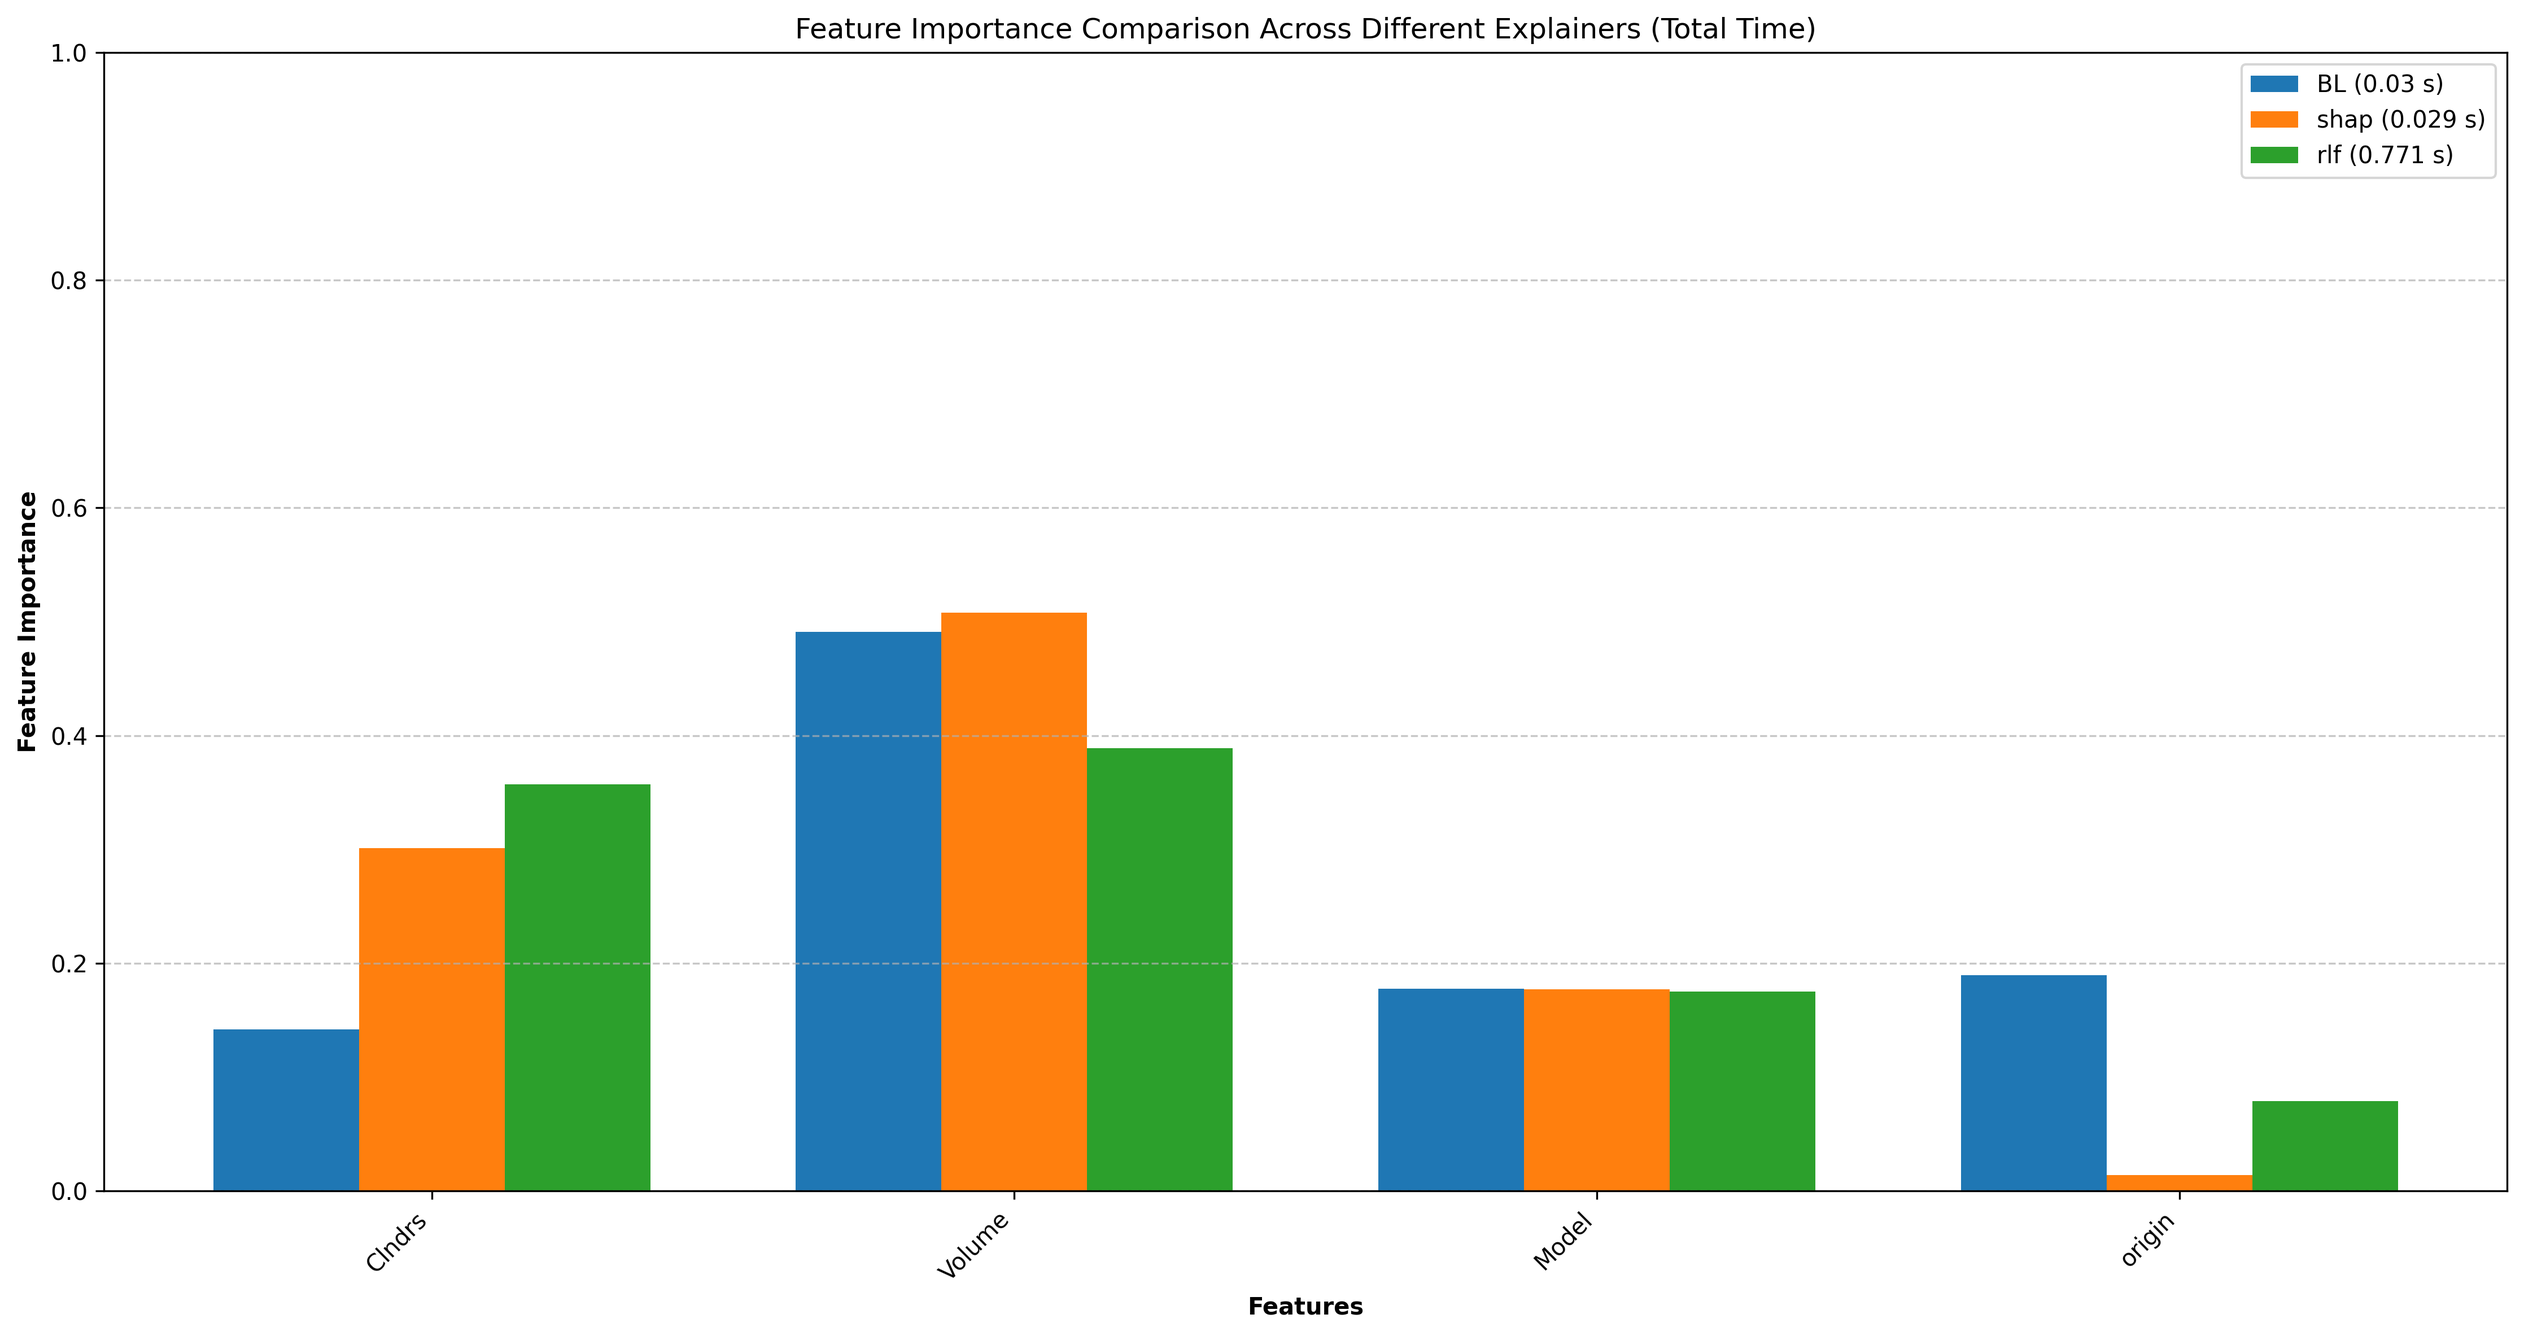
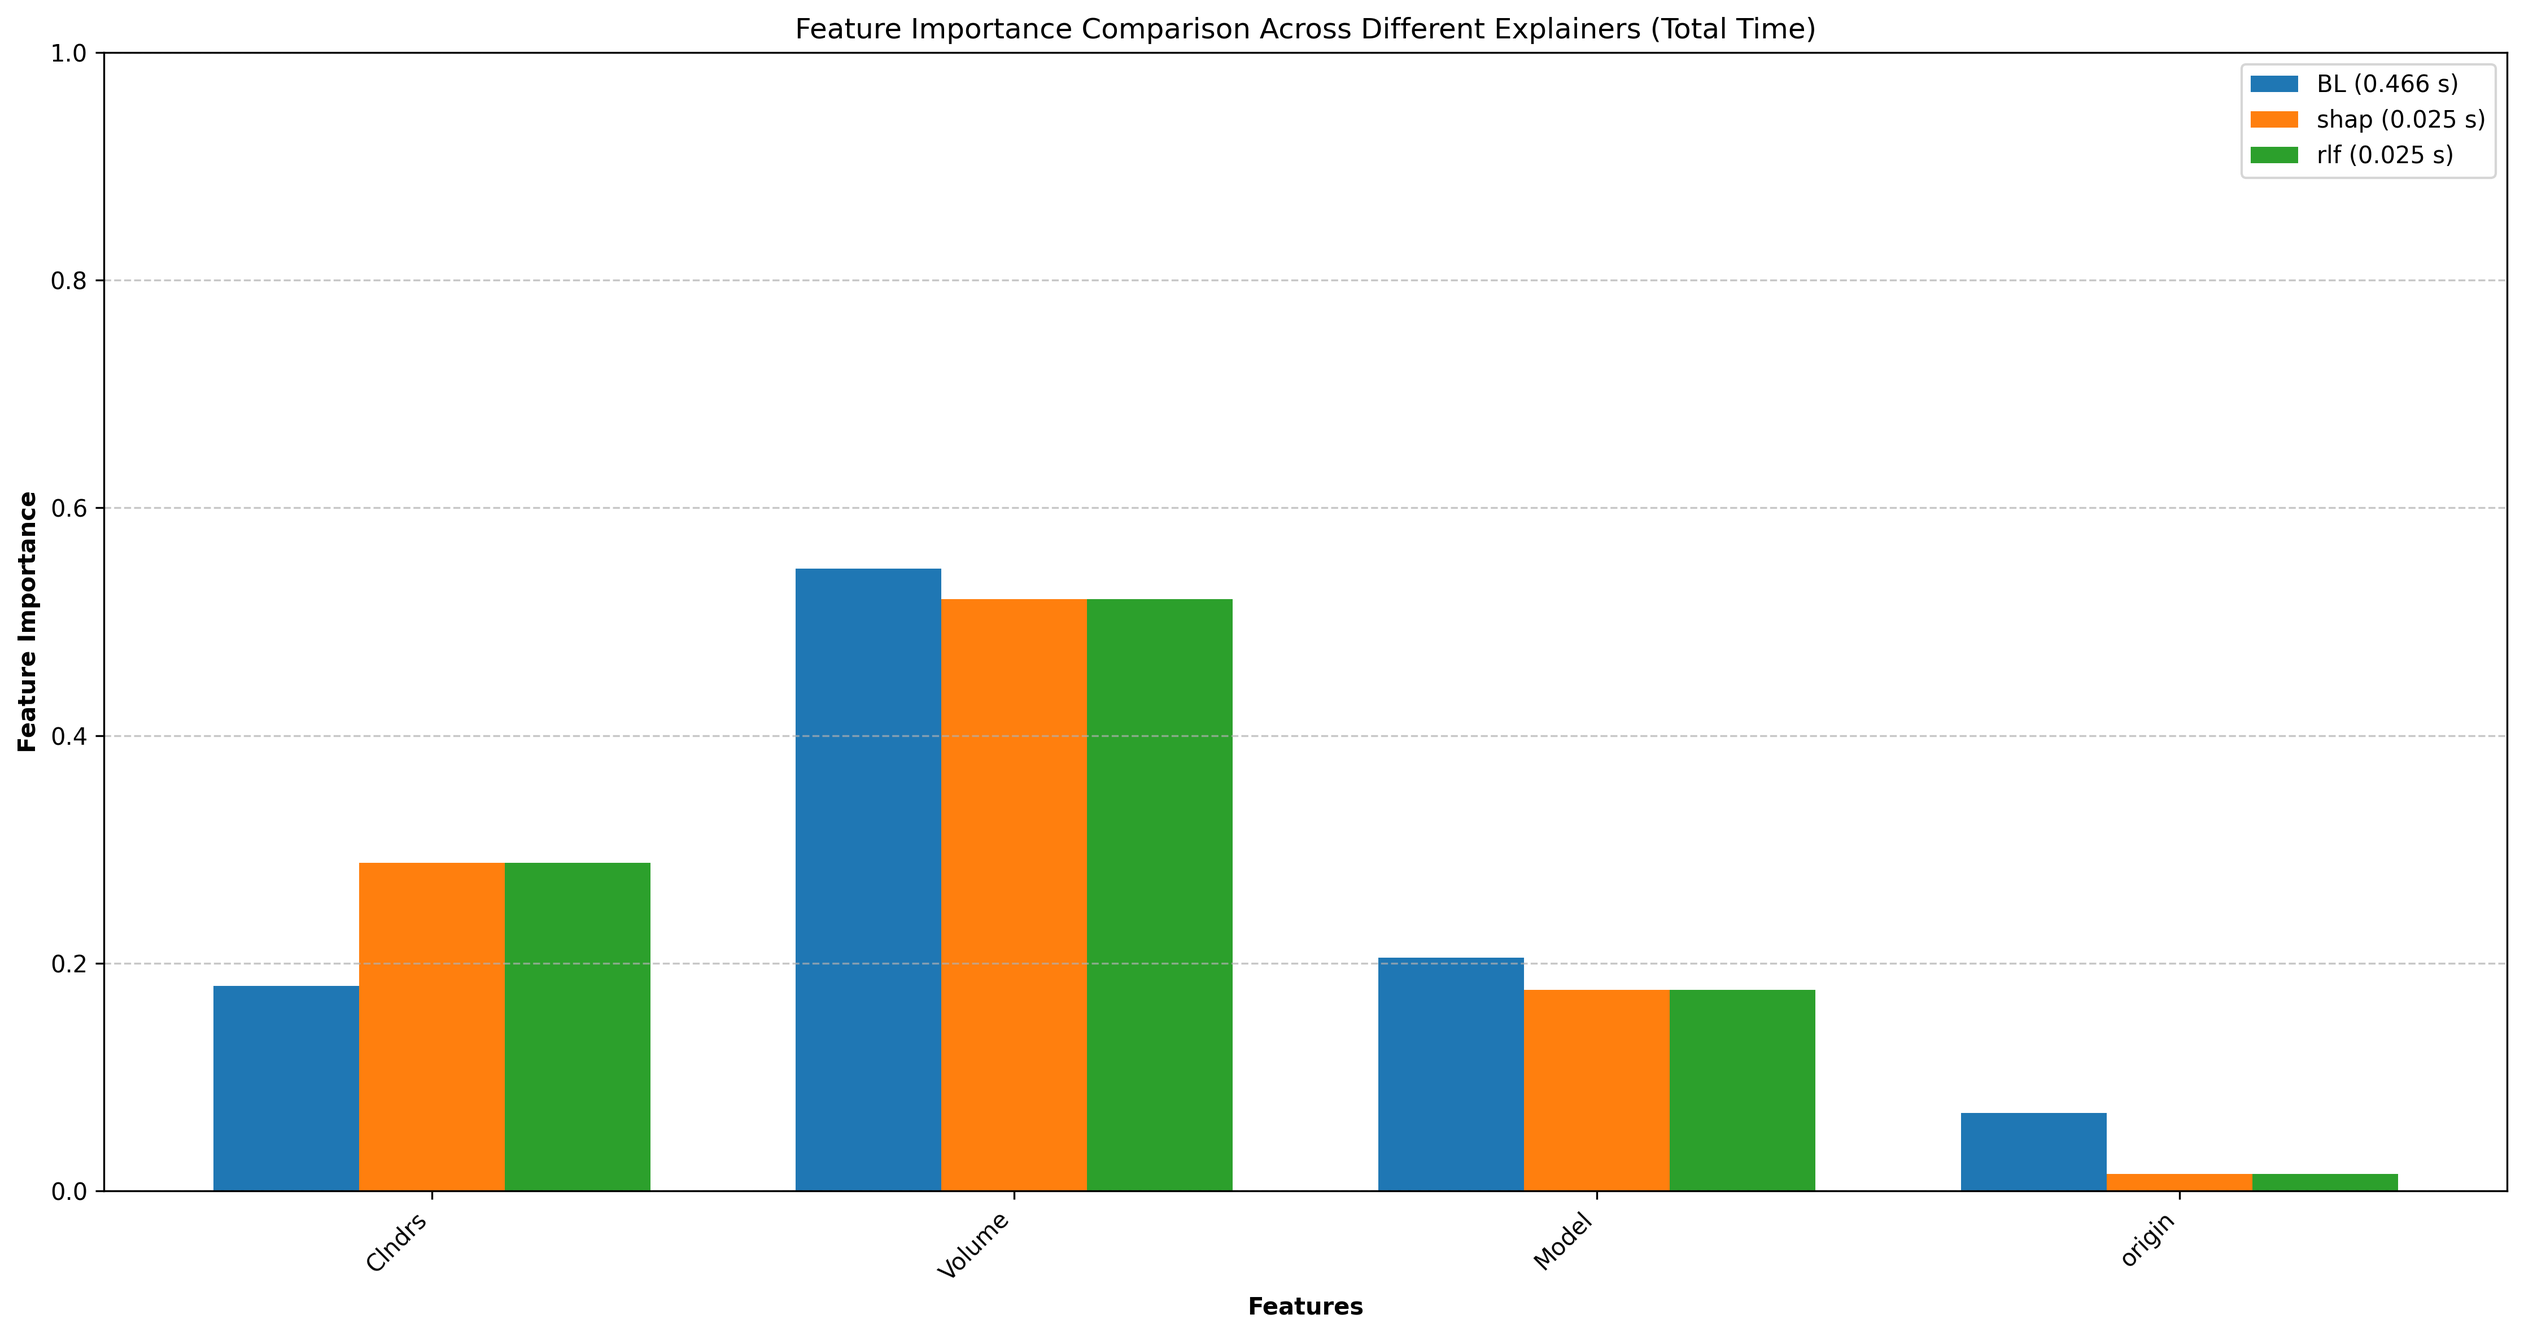
refactoring the experiment

diff --git a/src/extend4.py b/src/extend4.py
@@ -22,14 +22,10 @@ from neural_net import *
 from relieff import RReliefF
 
 
-Random_seed = 42
-
-def split_data(data, test_size=0.2):
-    global Random_seed
+def split_data(data, r_seed = 42, test_size=0.2):
     # Shuffle the data
     rows = data.rows.copy()
-    random.seed(Random_seed)
-    Random_seed *= 2
+    random.seed(r_seed)
     random.shuffle(rows)
     # Calculate split point
     split_idx = int(len(rows) * (1 - test_size))
@@ -48,19 +44,28 @@ def split_data(data, test_size=0.2):
 
 def run_bl_explainer(data):
     """Run BareLogic explainer and return feature importance"""
+    print('-------BL:-------')
     the.Stop = 32
     t1 = time.time()
-    model = actLearn(data, shuffle=True)
-    nodes = tree(model.best.rows + model.rest.rows, data)
-    #showTree(nodes)
-    print("MDI of BL tree:\t", round(treeMDI(nodes), 3))
-    bl_FI = treeFeatureImportance(nodes)
+    stts = []
+    count = 0
+    for _ in range(15):
+        model = actLearn(data, shuffle=True)
+        nodes = tree(model.best.rows + model.rest.rows, data)
+        #showTree(nodes)
+        #print("MDI of BL tree:\t", round(treeMDI(nodes), 3))
+        vals = treeFeatureImportance(nodes)
+        stts.append(vals)
+        count += len([i for i in vals.values() if i > 0])
+    bl_FI = {}
+    for f in data.cols.x:
+        bl_FI[f.txt] = np.average([stts[i][f.txt] for i in range(len(stts))])
     w = sum(vf for vf in bl_FI.values())
     for f in bl_FI:
         bl_FI[f] = bl_FI[f] / w
     bl_FI["explainer"] = "BL"
     bl_FI["run_time"] = time.time()-t1
-    return bl_FI
+    return bl_FI, count // 15
 
 def distribution_plot(labeled, data, features, sample):
     cols = [d.txt for d in data.cols.all]
@@ -307,13 +312,8 @@ def csv2(file, cols):
       line = re.sub(r'([\n\t\r ]|#.*)', '', line)
       if line: yield [coerce2(s, cols) for s in line.split(",")]
 
-def regression(unlabeled, labeled, cols, data, regressor, top_pick):
+def regression(labeled_df, unlabeled_df, labeled_y, unlabeled_y, cols, regressor, top_pick):
     features = [c for c in cols if c[-1] not in ["+","-", "X"]]
-    labeled_df = pd.DataFrame(labeled, columns=cols)
-    unlabeled_df = pd.DataFrame(unlabeled, columns=cols)
-    labeled_y = pd.DataFrame([ydist(row, data) for row in labeled], columns=["d2h"])
-    unlabeled_y = pd.DataFrame([ydist(row, data) for row in unlabeled], columns=["d2h"])
-
     le = LabelEncoder()
     for c in cols:
         if c[0].isupper():
@@ -361,40 +361,37 @@ def regression(unlabeled, labeled, cols, data, regressor, top_pick):
     #input()
     return sorted([unlabeled_y.iloc[i].values for i in top_idx])[-1][0] ## Returning d2h of worst point
 
-def exp1(file, columns, repeats, regressor, top_pick = 5, stop = 32):
+def exp1(selected_raw_data, data, test_data, b4, regressor, top_pick = 5, stop = 32):
     def win(x): return round(100*(1 - (x - b4.lo)/(b4.mu - b4.lo)))
-    selected_raw_data = Data(csv2(file, columns))
     the.Stop = stop
     stats = []
-    for _ in range(repeats):
-        data, test_data = split_data(selected_raw_data)
-        b4    = yNums(data.rows, selected_raw_data)
-        labeled = data.rows
-        unlabeled = test_data.rows
-        stats.append( win( regression(unlabeled, labeled, [d.txt for d in data.cols.all], selected_raw_data, regressor, top_pick) ) )
+    labeled = data.rows
+    unlabeled = test_data.rows
+    cols = [d.txt for d in data.cols.all]
+    labeled_df = pd.DataFrame(labeled, columns=cols)
+    unlabeled_df = pd.DataFrame(unlabeled, columns=cols)
+    labeled_y = pd.DataFrame([ydist(row, data) for row in labeled], columns=["d2h"])
+    unlabeled_y = pd.DataFrame([ydist(row, selected_raw_data) for row in unlabeled], columns=["d2h"])
+
+    stats.append( win( regression(labeled_df, unlabeled_df, labeled_y, unlabeled_y, cols, regressor, top_pick) ) )
     return np.mean(stats), np.std(stats)
 
-def exp2(file, columns, repeats, top_pick = 5, stop = 32):
+def exp2(selected_raw_data, data, test_data, b4, top_pick = 5, stop = 32):
     def win(x): return round(100*(1 - (x - b4.lo)/(b4.mu - b4.lo)))
-    selected_raw_data = Data(csv2(file, columns))
     the.Stop = stop
     stats = []
-    for _ in range(repeats):
-        data, test_data = split_data(selected_raw_data)
-        b4    = yNums(data.rows, selected_raw_data)
-        unlabeled_y = pd.DataFrame([ydist(row, data) for row in test_data.rows], columns=["d2h"])
-        model = actLearn(data,shuffle=False)
-        nodes = tree(model.best.rows + model.rest.rows,data)
-        guesses = sorted([(leaf(nodes,row).ys, i) for i, row in enumerate(test_data.rows)],key=first)
-        stats.append( win(sorted([unlabeled_y.iloc[i].values for _, i in guesses[:top_pick]])[-1][0]) )
-    return np.mean(stats), np.std(stats)
+    unlabeled_y = pd.DataFrame([ydist(row, selected_raw_data) for row in test_data.rows], columns=["d2h"])
+    model = actLearn(data,shuffle=False)
+    nodes = tree(model.best.rows + model.rest.rows,data)
+    guesses = sorted([(leaf(nodes,row).ys, i) for i, row in enumerate(test_data.rows)],key=first)
+    stats.append( win(sorted([unlabeled_y.iloc[i].values for _, i in guesses[:top_pick]])[-1][0]) )
 
-def find_optimal(file, picks):
+    vals = treeFeatureImportance(nodes)
+    return np.mean(stats), np.std(stats), len([i for i in vals.values() if i > 0])
+
+def find_optimal(selected_raw_data, test_data, b4, picks):
     def win(x): return round(100*(1 - (x - b4.lo)/(b4.mu - b4.lo)))
-    selected_raw_data = Data(csv(file))
-    data, test_data = split_data(selected_raw_data)
-    b4    = yNums(data.rows, selected_raw_data)
-    unlabeled_y = pd.DataFrame([ydist(row, data) for row in test_data.rows], columns=["d2h"])
+    unlabeled_y = pd.DataFrame([ydist(row, selected_raw_data) for row in test_data.rows], columns=["d2h"])
     return win(sorted(unlabeled_y["d2h"])[picks-1]), win(sorted(unlabeled_y["d2h"])[int(len(test_data.rows)*0.1)])
 
 def reliefff(data, cols):
@@ -425,6 +422,7 @@ def reliefff(data, cols):
     return rlf
     
 def main():
+    random_seed = 42
     dataset = sys.argv[1]
     raw_data = Data(csv(dataset))
     data, test_data = split_data(raw_data)
@@ -445,7 +443,7 @@ def main():
         distribution_plot(model.best.rows + model.rest.rows, data, features, "32")
     
     # Run all explainers
-    bl_FI = run_bl_explainer(data)
+    bl_FI, feature_counts = run_bl_explainer(data)
     #lime_FI = run_lime_explainer(data, test_data, features)
     shap_FI = run_shap_explainer(data, test_data, features)
     rlf_FI = shap_FI
@@ -459,36 +457,67 @@ def main():
     feature_importance.loc[len(feature_importance)] = rlf_FI
     feature_importance.loc[len(feature_importance)-1, "explainer"] = "rlf"
     analyze_feature_importance(feature_importance, features)
-    for regressor in ["bl", "ann","rf", "svr", "lgbm","linear"]:
+
+    repeats = 5
+    top_features = get_features(feature_importance, feature_counts)
+    stats = {}
+    for regressor in ["linear", "bl", "rf", "svr", "ann", "lgbm"]:
         bl_mean, bl_std = [], []
         shap_mean, shap_std = [], []
         rlf_mean, rlf_std = [], []
         t1 = time.time()
-        for k in range(len(features)):
-            print("-------------------  : ", k)
-            top_features = get_features(feature_importance, k+1)
+        optimal, optimal_90 = [], []
+        for _ in range(repeats):
+            random_seed *= 2
             if regressor == "bl":
-                mean, std = exp2(dataset, top_features['BL'] + targets, 15, 5, 32)
+                selected_raw_data = Data(csv(dataset))
+                data, test_data = split_data(selected_raw_data, random_seed)
+                b4    = yNums(data.rows, selected_raw_data)
+                mean, std, counts = exp2(data, test_data, b4, 5, 32)
                 bl_mean.append(mean)
                 bl_std.append(std)
-                mean, std = exp2(dataset, top_features['shap'] + targets, 15, 5, 32)
+
+                top_features_bl = get_features(feature_importance, counts)
+                selected_raw_data = Data(csv2(dataset, top_features_bl['shap'] + targets))
+                data, test_data = split_data(selected_raw_data, random_seed)
+                b4    = yNums(data.rows, selected_raw_data)
+                mean, std = exp2(data, test_data, b4, 5, 32)
                 shap_mean.append(mean)
                 shap_std.append(std)
-                mean, std = exp2(dataset, top_features['rlf'] + targets, 15, 5, 32)
+
+                selected_raw_data = Data(csv2(dataset, top_features_bl['rlf'] + targets))
+                data, test_data = split_data(selected_raw_data, random_seed)
+                b4    = yNums(data.rows, selected_raw_data)
+                mean, std = exp2(data, test_data, b4, 5, 32)
                 rlf_mean.append(mean)
                 rlf_std.append(std)
             else:
-                mean, std = exp1(dataset, top_features['BL'] + targets, 15, regressor, 5, 32)
+                selected_raw_data = Data(csv2(dataset, top_features['BL'] + targets))
+                data, test_data = split_data(selected_raw_data, random_seed)
+                b4    = yNums(data.rows, selected_raw_data)
+                mean, std = exp1(selected_raw_data, data, test_data, b4, regressor, 5, 32)
                 bl_mean.append(mean)
                 bl_std.append(std)
-                mean, std = exp1(dataset, top_features['shap'] + targets, 15, regressor, 5, 32)
+
+                selected_raw_data = Data(csv2(dataset, top_features['shap'] + targets))
+                data, test_data = split_data(selected_raw_data, random_seed)
+                b4    = yNums(data.rows, selected_raw_data)
+                mean, std = exp1(selected_raw_data, data, test_data, b4, regressor, 5, 32)
                 shap_mean.append(mean)
                 shap_std.append(std)
-                mean, std = exp1(dataset, top_features['rlf'] + targets, 15, regressor, 5, 32)
+
+                selected_raw_data = Data(csv2(dataset, top_features['rlf'] + targets))
+                data, test_data = split_data(selected_raw_data, random_seed)
+                b4    = yNums(data.rows, selected_raw_data)
+                mean, std = exp1(selected_raw_data, data, test_data, b4, regressor, 5, 32)
                 rlf_mean.append(mean)
                 rlf_std.append(std)
                 
-        optimal, optimal_90 = find_optimal(dataset, 5)
+            o, o_90 = find_optimal(selected_raw_data, test_data, b4, 5)
+            optimal.append(o)
+            optimal_90.append(o_90)
+        
+
         #print(bl_mean,"\n", shap_mean, optimal)
         # Create the plot
         plt.figure(figsize=(10, 6))
@@ -500,6 +529,7 @@ def main():
         
         plt.errorbar(x, [optimal for _ in range(len(bl_mean))], label = f"Optimal 5/{len(test_data.rows)}", marker='o', capsize=5)
         plt.errorbar(x, [optimal_90 for _ in range(len(bl_mean))], label = f"90% Optimal {int(0.1 * len(test_data.rows))}/{len(test_data.rows)}", marker='o', capsize=5)
+        
         # Customize the plot
         plt.xlabel('# Top Features')
         plt.ylabel('% worst optimal d2hs')

diff --git a/src/extend5.py b/src/extend5.py
@@ -1,24 +1,51 @@
 import sys
 from bl import *
 import pandas as pd 
-from extend4 import split_data
+from extend4 import *
 import matplotlib.pyplot as plt
-
+import numpy as np
 dataset = sys.argv[1]
 selected_raw_data = Data(csv(dataset))
 
-for _ in range(20):
-    data, test_data = split_data(selected_raw_data)
-    model = actLearn(data,shuffle=True)
-    nodes = tree(model.best.rows + model.rest.rows,data)
-    vals = treeFeatureImportance(nodes).values()
-    size = len([i for i in vals if i > 0])
-    print([round(a,3) for a in vals], size, treeMDI(nodes))
-    plt.figure(figsize=(10, 6))
-    plt.bar(range(len(vals)), vals)
-    plt.xlabel('Features')
-    plt.ylabel('Importance')
-    plt.title(f'Feature Importance Distribution (Non-zero features: {size})')
-    plt.grid(True, linestyle='--', alpha=0.7)
-    plt.savefig(f'tmp/feature_importance_{_}.png', dpi=300, bbox_inches='tight')
-    plt.close()
+#stts = []
+#for _ in range(20):
+#    data, test_data = split_data(selected_raw_data, 42*_)
+#    model = actLearn(data,shuffle=True)
+#    nodes = tree(model.best.rows + model.rest.rows,data)
+#    vals = treeFeatureImportance(nodes).values()
+#    size = len([i for i in vals if i > 0])
+#    #print([round(a,3) for a in vals], size, treeMDI(nodes))
+#    stts.append([round(a,3) for a in vals])
+#    plt.figure(figsize=(10, 6))
+#    plt.bar(range(len(vals)), vals)
+#    plt.xlabel('Features')
+#    plt.ylabel('Importance')
+#    plt.title(f'Feature Importance Distribution (Non-zero features: {size})')
+#    plt.grid(True, linestyle='--', alpha=0.7)
+#    plt.savefig(f'tmp/bl_{_}.png', dpi=300, bbox_inches='tight')
+#    plt.close()
+#plt.figure(figsize=(10, 6))
+#data_to_plot = [[n[i] for n in stts] for i in range(len(vals))]
+#plt.boxplot(data_to_plot, tick_labels=range(len(vals)), showfliers=True)
+#plt.xlabel('Features')
+#plt.ylabel('Importance')
+#plt.title(f'Feature Importance Distribution (Non-zero features: {size})')
+#plt.grid(True, linestyle='--', alpha=0.7)
+#plt.savefig(f'tmp/bl_total.png', dpi=300, bbox_inches='tight')
+#plt.close()
+
+#for ii in range(5):
+#    data, test_data = split_data(selected_raw_data, 42*ii)
+#    cols = [d.txt for d in data.cols.all]
+#    features = [c for c in cols if c[-1] not in ["+", "-", "X"]]
+#    shap_FI = run_shap_explainer(data, test_data, features)
+#    size = len([shap_FI[i] for i in features if shap_FI[i] > 0])
+#    print([round(shap_FI[a],3) for a in features], size)
+#    plt.figure(figsize=(10, 6))
+#    plt.bar(range(len(features)), [shap_FI[i] for i in features])
+#    plt.xlabel('Features')
+#    plt.ylabel('Importance')
+#    plt.title(f'Feature Importance Distribution (Non-zero features: {size})')
+#    plt.grid(True, linestyle='--', alpha=0.7)
+#    plt.savefig(f'tmp/shap_{ii}.png', dpi=300, bbox_inches='tight')
+#    plt.close()
